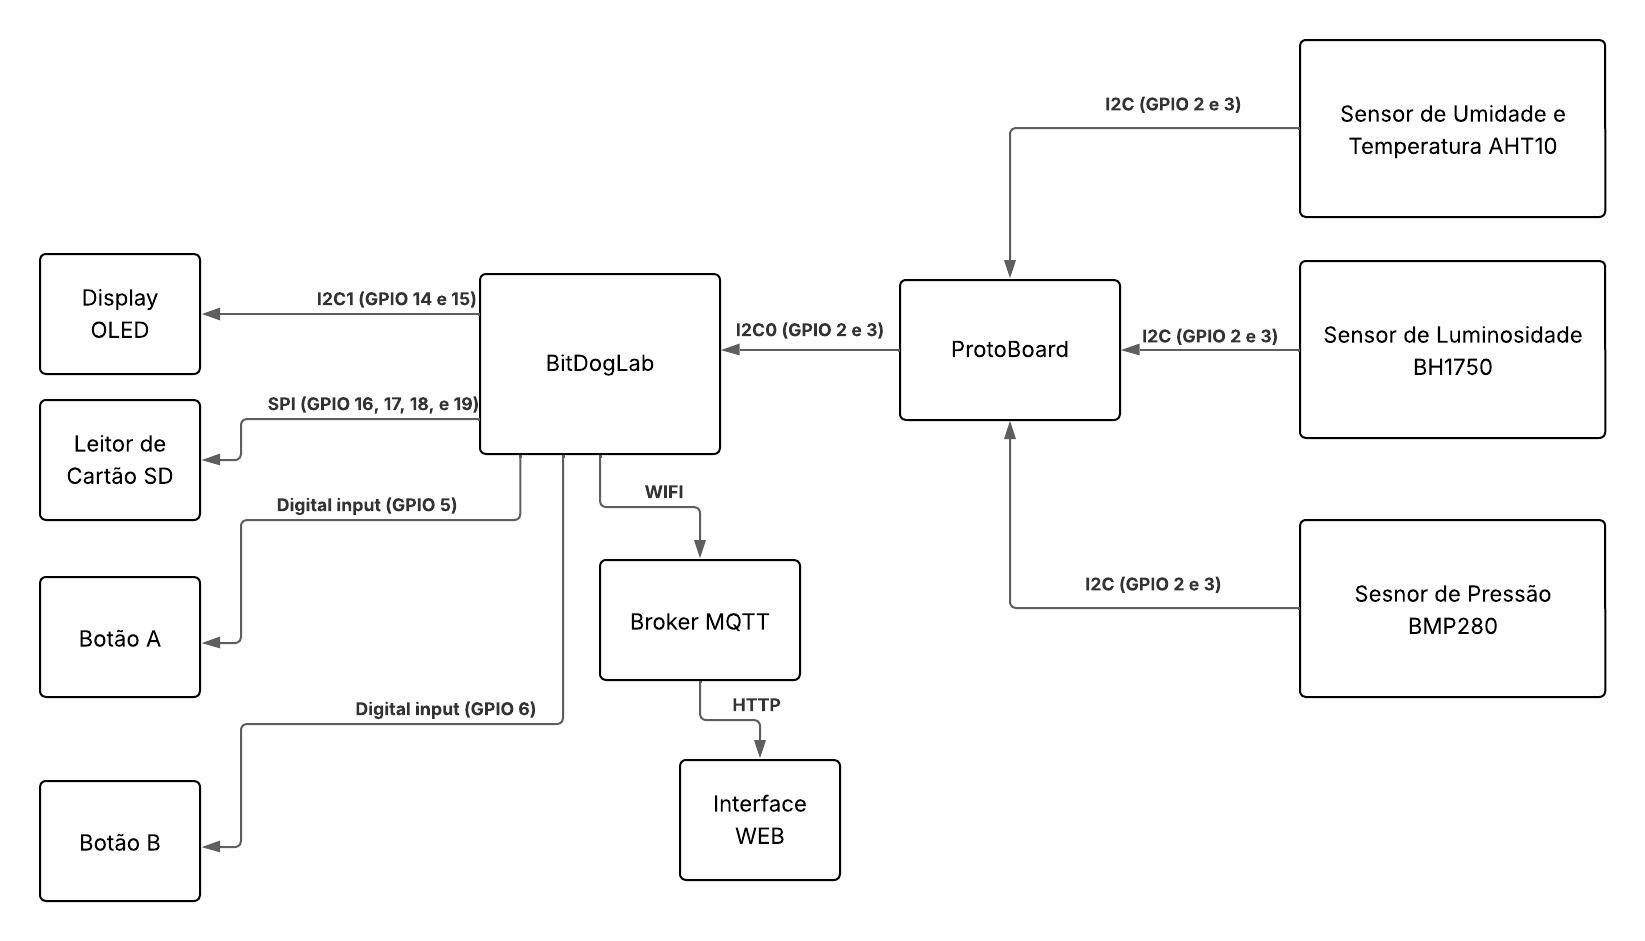
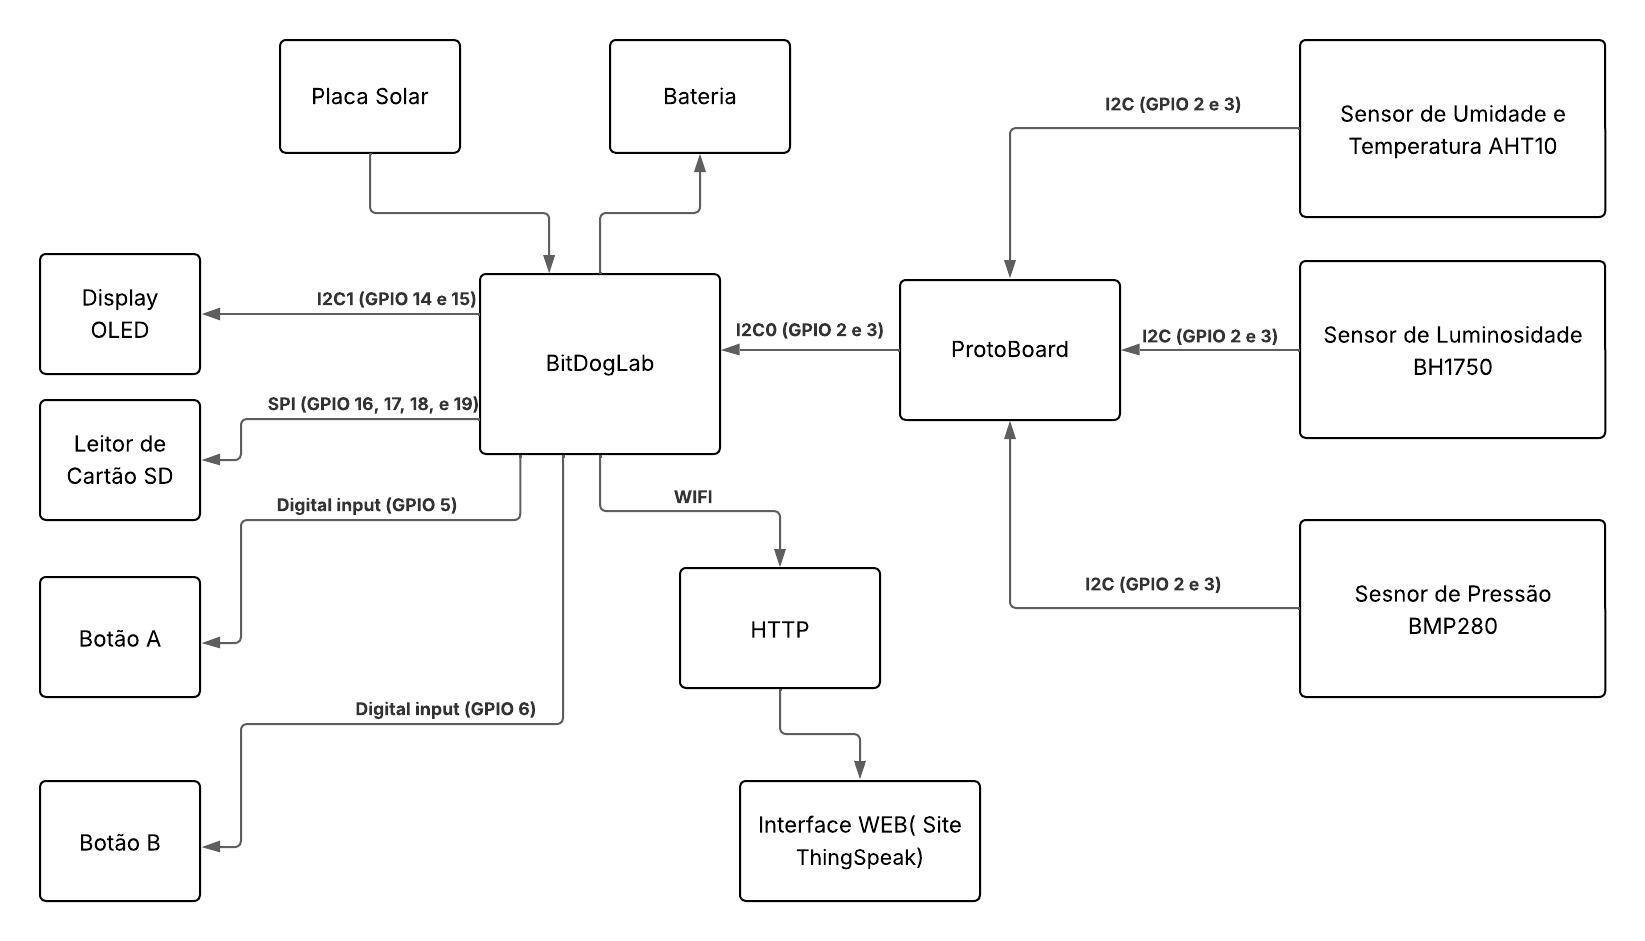
Projeto Final: Ajustes no Readme

diff --git a/Etapa 2/README.md b/Etapa 2/README.md
@@ -34,6 +34,8 @@ Desenvolver uma mini-estação portátil e inteligente que:
 - Monitore **temperatura, umidade, luz e pressão** em tempo real.  
 - Emita na **tela OLED** os dados coletados dos sensores.  
 - Armazene no **cartão SD** todos os dados coletados pelos sensores durante o ano para futura análise.  
+- Envie por **Wi-Fi** todos os dados coletados pelos sensores para o site ThingSpeak, onde são gerados gráficos.  
+- Recarregue por **Painel Solar** a bateria que alimenta a BitDogLab.  
 
 ---
 
@@ -46,12 +48,14 @@ Desenvolver uma mini-estação portátil e inteligente que:
 | RF02   | Coletar os Dados de Pressão. |  
 | RF03   | Coletar os Dados de Umidade. |  
 | RF04   | Coletar os Dados de Luminosidade. |  
-| RF05   | Exibir dados dos sensores em uma tela. |  
+| RF05   | Exibir dados dos sensores, e da rede Wi-Fi em uma tela OLED. |  
 | RF06   | Armazenar os dados coletados no Cartão SD em intervalos de tempo. |  
 | RF07   | Mostrar o status de armazenamento, se gravou ou não. |  
-| RF08   | Ao pressionar o botão A, a tela deve alternar para a Tela 2 (valores). Ao pressionar o botão B, a tela deve alternar para a Tela 1 (status). |  
+| RF08   | Ao pressionar o botão A, a tela deve avançar para tela seguinte. Ao pressionar o botão B, a tela deve voltar sempre para a Tela 1 (status). |  
 | RF09   | Exibir mensagens de alerta na tela OLED quando condições críticas forem detectadas (ex.: risco de geada, fungos, calor excessivo, tendência de chuva). |  
-| RF10   | Definir o intervalo de leitura dos sensores e o modo de gravação dos dados no cartão SD (individual ou em lotes). |  
+| RF10   | Enviar os dados por Wi-Fi para o site ThingSpeak. |  
+| RF11   | Recarregar a bateria com energia do painel solar através da BitDogLAb. |  
+| RF12   | Definir o intervalo de leitura dos sensores e o modo de gravação dos dados no cartão SD. |  
 
 ---
 
@@ -67,6 +71,7 @@ Desenvolver uma mini-estação portátil e inteligente que:
 | RNF06  | O sistema deve operar continuamente. | Sistema deve funcionar por pelo menos 7 dias sem necessidade de reinicialização manual. |
 | RNF07  | O software deve ser implementado usando FreeRTOS, multitarefa. | Cada função crítica (coleta de dados, exibição, gravação em SD) deve rodar como tarefa independente, com prioridade definida. Scheduler deve garantir que leituras não atrasem mais que 1s. |
 | RNF08  | Clareza dos alertas exibidos. | Mensagens devem ser curtas (≤ 20 caracteres), exibidas por pelo menos 5 segundos e facilmente interpretáveis pelo agricultor. |
+| RNF09 | Sustentabilidade energética. | O sistema deve priorizar uso de energia solar sempre que disponível, reduzindo dependência de fontes externas. |
 
 ---
 
@@ -75,7 +80,7 @@ Desenvolver uma mini-estação portátil e inteligente que:
 | Item | Quantidade | Descrição |
 |------|------------|-----------|
 | Caixa de plástico ou madeira | 1 | Recipiente base para proteção dos componentes |
-| Placa BitDogLab com Raspberry Pi Pico W | 1 | Microcontrolador com periféricos integrados (OLED, botões) |
+| Placa BitDogLab com Raspberry Pi Pico W | 1 | Microcontrolador com periféricos integrados (OLED, botões, Wi-Fi) |
 | Placa Protoboard | 1 | Conectada à entrada I2C0 |
 | Sensor de Temperatura e Pressão BMP280 | 1 | Sensor externo conectado via Protoboard |
 | Sensor de Umidade e Temperatura AHT10 | 1 | Sensor externo conectado via Protoboard |
@@ -84,9 +89,11 @@ Desenvolver uma mini-estação portátil e inteligente que:
 | Cabos customizados XH I2C | 1 | Para conexão dos sensores externos à BitDogLab |
 | Cabos jumper macho/fêmea | 4 | Para conexão da protoboard na entrada I2C0 |
 | Cabos jumper macho/fêmea | 12 | Para conexão dos sensores na protoboard |
-| Fonte de energia (Power Bank ou bateria Li-ion) | 1 | Alimentação portátil para o sistema |
-| Botão A | 1 | Alternar tela do display OLED |
-| Botão B | 1 | Alternar tela do display OLED |
+| Bateria lítio 3,7V recarregável, Power Bank(Opcional) | 1 | Alimentação portátil para o sistema |
+| Mini Painel solar 6V - 320 mA | 1 | Para carregar a BitDogLab que carregará a bateria de 3.7v da placa |
+| Regulador de tensão LM7805 (5V / 1A) | 1 |Para conectar a Painel Solar a bitdolab pela protoboard |
+| Botão A | 1 | Avançar as telas do display OLED |
+| Botão B | 1 | Voltar a tela de status no display OLED |
 
 ---
 
@@ -113,10 +120,18 @@ Desenvolver uma mini-estação portátil e inteligente que:
 - **Formato de gravação**: dados registrados em **CSV**, no padrão:  
 
 ```
+Temp: 28.95 | Umid: 26.89 | Press: 890.85 | Lux: 101.67 
+Temp: 28.93 | Umid: 26.74 | Press: 890.77 | Lux: 103.33 
+Temp: 28.95 | Umid: 26.97 | Press: 887.80 | Lux: 103.80
+
+ou:
+
 Data,Hora,Temperatura(°C),Umidade(%),Pressão(hPa),Luminosidade(lux)
 05/09/2025,14:35:00,28.4,65,1012,1250
 05/09/2025,14:36:00,28.7,64,1011,1275
+
 ```
+
 ### Justificativa Técnica  
 - Leituras frequentes permitem detectar variações rápidas no microclima.  
 - Armazenar em lotes reduz o desgaste do cartão SD e economiza energia.  
@@ -128,15 +143,16 @@ Data,Hora,Temperatura(°C),Umidade(%),Pressão(hPa),Luminosidade(lux)
 
 ### Principais Características  
 ✅ **Monitoramento em Tempo Real**: Sensores monitoram temperatura, umidade, luz e pressão atmosférica.  
-✅ **Tela de Informações**: Tela OLED com dados dos sensores.  
-✅ **Registro de Dados**: Armazena informações em cartão SD ou transmite via Wi-Fi (futuro).  
-✅ **Operação Autônoma**: Alimentado por bateria ou Powerbank para portabilidade.  
+✅ **Tela de Informações**: Tela OLED com dados dos sensores, da Wi-Fi, do cartão SD, dos Alertas.  
+✅ **Registro de Dados**: Armazena informações em cartão SD ou transmite via Wi-Fi.  
+✅ **Operação Autônoma**: Alimentado por bateria e recarregado com Painel Solar ou Powerbank para portabilidade.  
 
 ### Fluxo de Trabalho do Sistema  
 1. **Sensores** coletam dados ambientais.  
 2. **BitDogLab (RP2040)** processa dados e salva no cartão SD.  
 3. **Display OLED** exibe dados coletados.  
-4. **Conectividade Wi-Fi** (opcional) será implementada futuramente.  
+4. **Conectividade Wi-Fi** Manda os dados para o site ThingSpeak, para visualização de gráficos.  
+5. **Painel Solar + Bateria Li-Ion** garantem a autonomia energética da estação.
 ---
 
 ## Arquitetura do Sistema ##
@@ -213,7 +229,7 @@ Se o cartão SD for reconhecido, o equipamento começa a salvar as medições am
 
 ### Exemplo de Dashboard caso o modulo Wifi seja implementado no futuro ###
 
-![alt text](graficos.png)
+![alt text](graficos.jpg)
 
 ## 📊 Dados coletados
 
@@ -286,7 +302,7 @@ Se o cartão SD for reconhecido, o equipamento começa a salvar as medições am
 
 ## 📂 Estrutura do Projeto   ##
 ```  
-├── app/
+├── src/
 │ └── main.c # Programa principal
 ├── drivers/
 │ ├── ssd1306.c # Driver OLED SSD1306
@@ -300,12 +316,15 @@ Se o cartão SD for reconhecido, o equipamento começa a salvar as medições am
 │ ├── BMP280.c # Leitura BMP280
 │ ├── buttons.c # Botoes A e B
 │ ├── i2c_setup.c # Configura porta i2c
+│ ├── thingspeak.c # Configura a conexão com site
 │ └── display.c # Funções do display OLED
 ├── include/
 │ ├── AHT10.h
 │ ├── BH1750.h
 │ ├── BMP280.h
 │ ├── buttons.h
+│ ├── credentials.h
+│ ├── thingspeak.h
 │ ├── i2c_setup.h
 │ ├── FreeRTOSConfig.h
 │ ├── lwipopts.h
@@ -316,6 +335,8 @@ Se o cartão SD for reconhecido, o equipamento começa a salvar as medições am
 │ └── sd_card.h
 ├── no-OS-FatFS-SD-SPI-RPi-Pico/
 ├── CMakeLists.txt
+├── .gitignore
+├── pico_sdk_import.cmake
 └── README.md
 ```  
 ---

diff --git a/Etapa 1/README.md b/Etapa 1/README.md
@@ -122,6 +122,12 @@ Temp: 28.95 | Umid: 26.89 | Press: 890.85 | Lux: 101.67
 Temp: 28.93 | Umid: 26.74 | Press: 890.77 | Lux: 103.33 
 Temp: 28.95 | Umid: 26.97 | Press: 887.80 | Lux: 103.80
 
+ou:
+
+Data,Hora,Temperatura(°C),Umidade(%),Pressão(hPa),Luminosidade(lux)
+05/09/2025,14:35:00,28.4,65,1012,1250
+05/09/2025,14:36:00,28.7,64,1011,1275
+
 ```
 ### Justificativa Técnica  
 - Leituras frequentes permitem detectar variações rápidas no microclima.  
